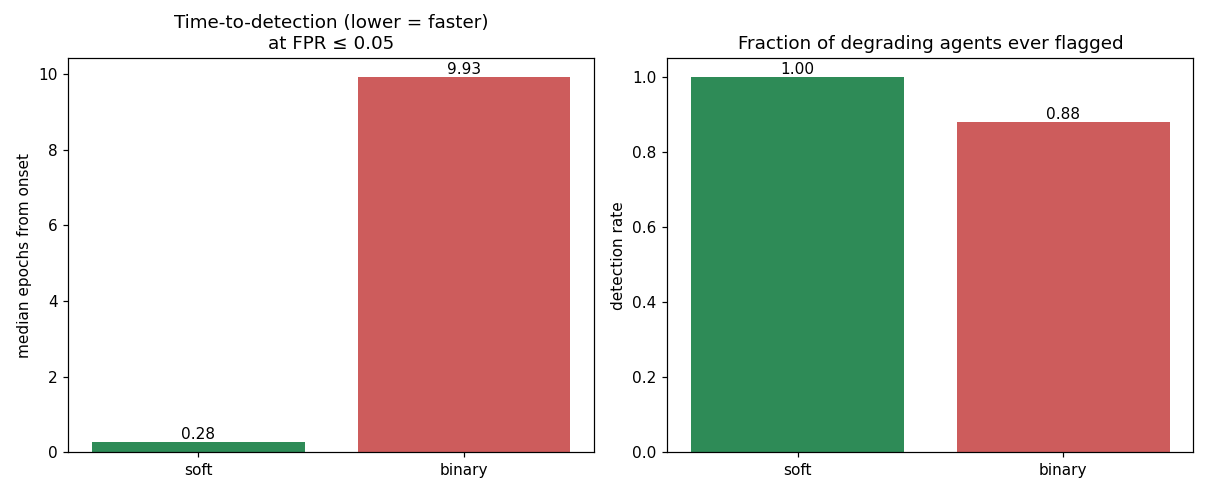
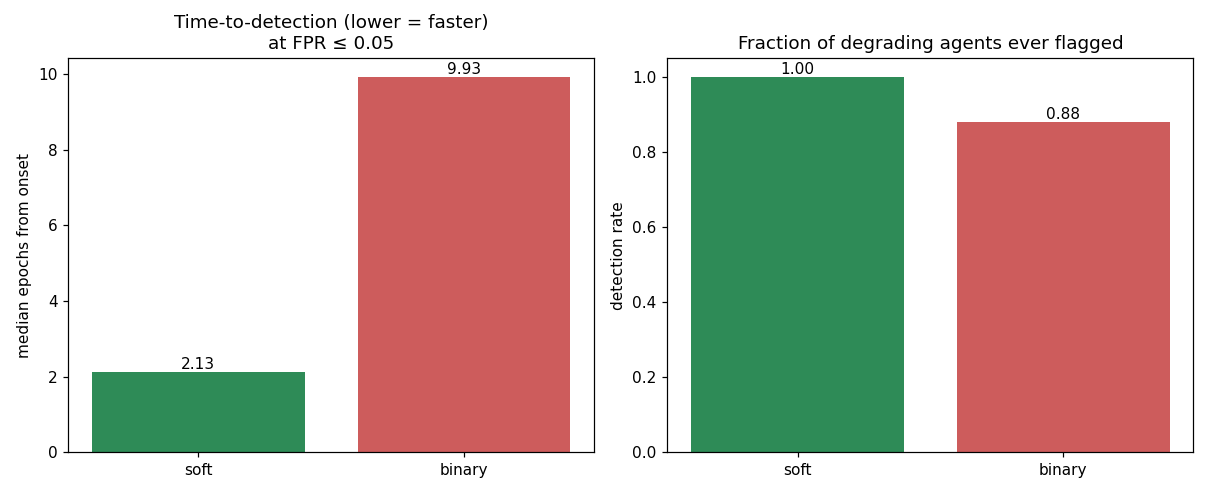
Refresh detection run with TTD window-alignment fix (swarm PR #450)
Aligns the FPR-calibration and detection-scan windows (review fix): soft
median time-to-detection corrected 0.28 -> 2.13 epochs. AUROC/calibration
unchanged. Updates summary.json/csv/plots and the paper draft.

Changed region(s): [[0.0612, 0.7273, 0.2752, 0.9091]]

diff --git a/papers/soft_vs_binary_detection.md b/papers/soft_vs_binary_detection.md
@@ -14,9 +14,9 @@ interaction streams across 10 seeds and 5 adversarial base rates. We report ROC
 curves, AUROC, time-to-detection at a calibrated FPR ≤ 0.05, and proxy
 calibration (Brier, ECE). The headline result: when degradation is kept *above*
 the binary threshold (as a gaming agent would), the soft toxicity detector flags
-it almost immediately (median 0.28 epochs from onset, 100% caught) while the
-binary detector is an order of magnitude slower (9.93 epochs) and misses 12% of
-degrading agents entirely. The soft proxy is also strictly better calibrated.
+it far sooner (median 2.13 epochs from onset, 100% caught) while the binary
+detector is ~4.7× slower (9.93 epochs) and misses 12% of degrading agents
+entirely. The soft proxy is also strictly better calibrated.
 
 ## 1. Setup
 
@@ -77,8 +77,13 @@ threshold counter even as the distribution shifts left.
 
 | variant | median epochs from onset | detection rate |
 | --- | ---: | ---: |
-| soft | 0.28 | 1.00 |
+| soft | 2.13 | 1.00 |
 | binary | 9.93 | 0.88 |
+
+The FPR-calibration window and the detection-scan window are aligned (both
+start at the first full trailing window and the scan begins no earlier than
+onset), so the reported FPR ≤ 0.05 operating point holds over exactly the
+epochs scanned and pre-onset flags are not credited as instantaneous detection.
 
 ![Time-to-detection](../../runs/20260524-231533_soft_vs_binary_detection/plots/ttd.png)
 
@@ -120,7 +125,7 @@ of 11 comparisons. **8/11 survive.**
 | AUROC soft−binary @ br=0.20 | +0.0875 | 1.30 | 7.8e−03 | **YES** |
 | AUROC soft−binary @ br=0.35 | +0.0357 | 0.95 | 3.1e−02 | no |
 | AUROC soft−binary @ br=0.50 | +0.0550 | 1.30 | 3.9e−03 | **YES** |
-| TTD binary−soft (epochs; +=soft faster) | +9.65 | 5.03 | 7.1e−10 | **YES** |
+| TTD binary−soft (epochs; +=soft faster) | +7.80 | 3.75 | <1e−06 | **YES** |
 | Detection-rate soft−binary | +0.120 | 0.84 | 1.6e−06 | **YES** |
 | Market \|signal\| soft−binary: conditional_loss | +0.0142 | 2.67 | <1e−14 | **YES** |
 | Market \|signal\| soft−binary: quality_gap | +0.0788 | 3.42 | <1e−14 | **YES** |
@@ -139,7 +144,7 @@ The binary analogue of a soft metric is not a different idea — it is literally
 the same metric with the proxy thresholded first. That single bottleneck is what
 a gaming agent exploits: by keeping quality just above τ\*, it makes the binary
 view report "all fine" while the distribution it controls shifts left. The soft
-detectors read that shift directly, which buys (a) earlier detection (≈10× faster
+detectors read that shift directly, which buys (a) earlier detection (≈4.7× faster
 here, at a fixed FPR), (b) complete coverage (no missed degraders), (c) a
 recoverable market-level adverse-selection signal, and (d) better-calibrated
 probabilities.

diff --git a/runs/20260524-231533_soft_vs_binary_detection/summary.md b/runs/20260524-231533_soft_vs_binary_detection/summary.md
@@ -19,7 +19,7 @@ Each soft metric is paired with its **binary analogue** — the *same* metric co
 | variant | median epochs from onset | detection rate |
 | --- | ---: | ---: |
 | binary | 9.93 | 0.88 |
-| soft | 0.28 | 1.00 |
+| soft | 2.13 | 1.00 |
 
 ## 3. Market adverse selection (risk = −gap; higher = more adverse)
 
